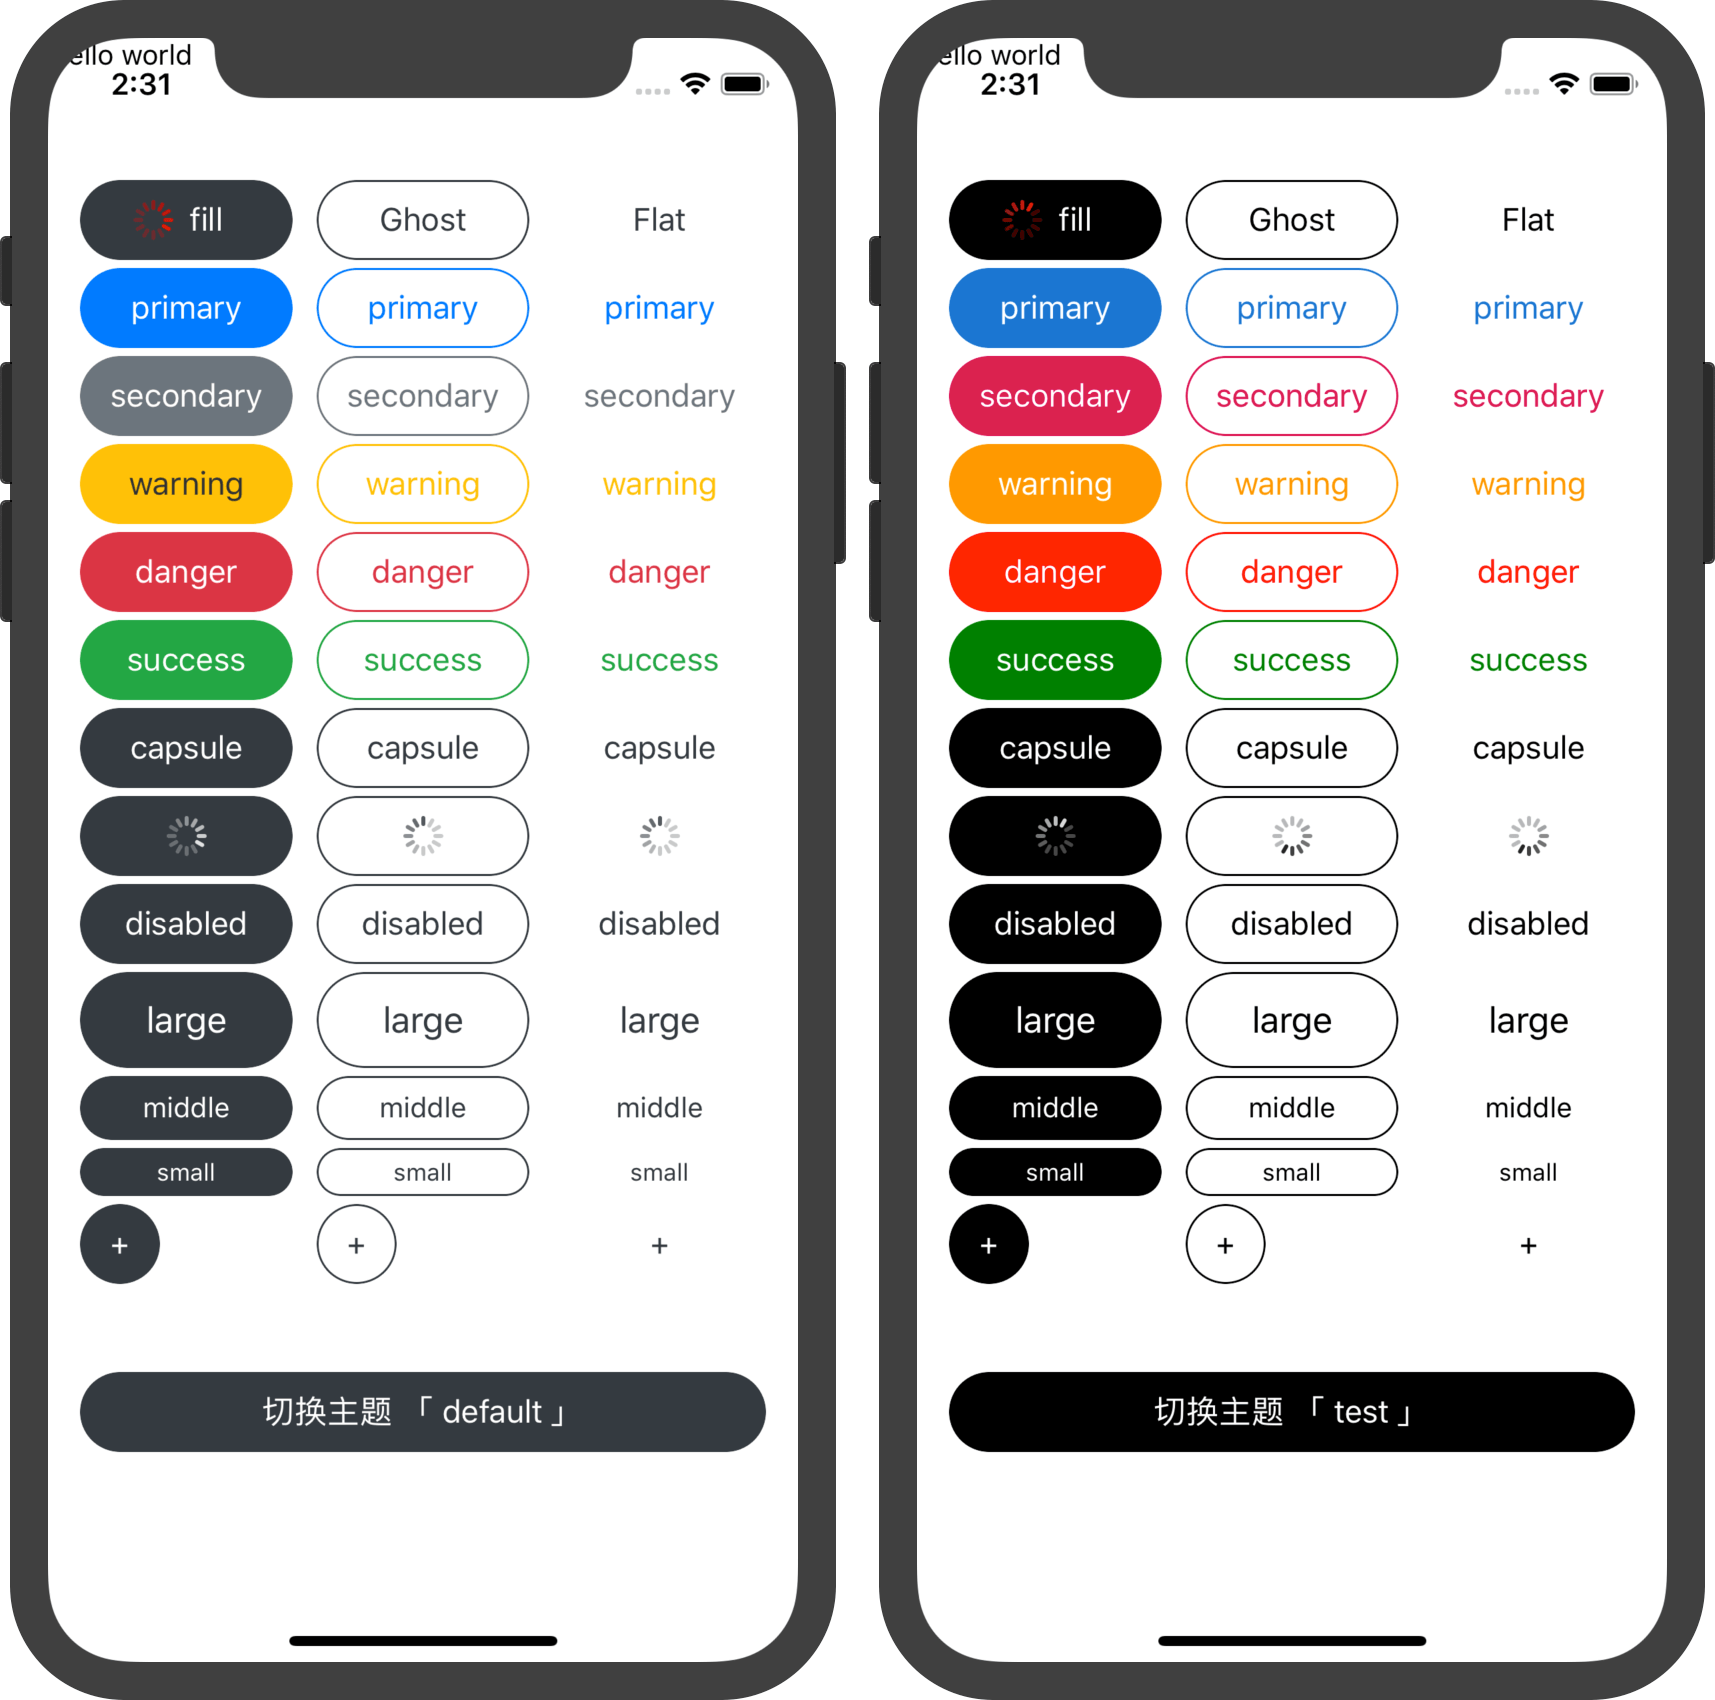
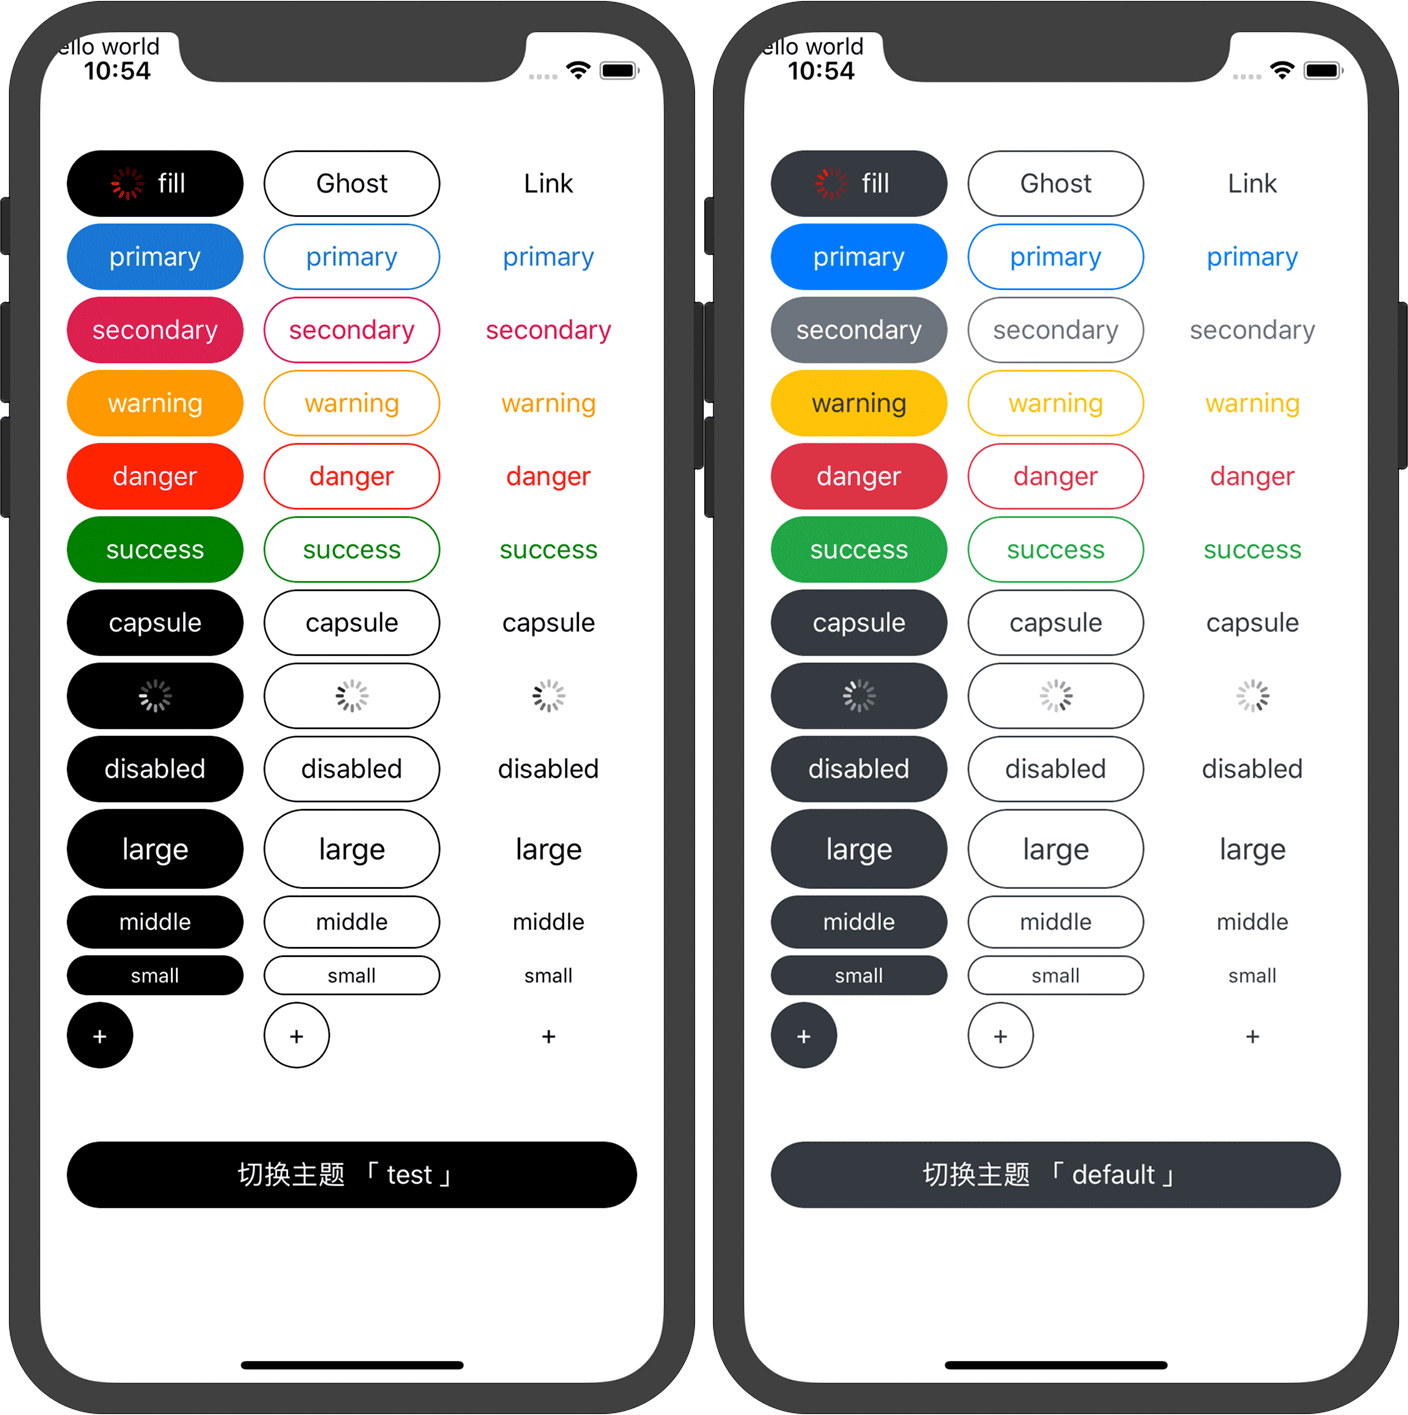
修改flat到link

diff --git a/demo/App.js b/demo/App.js
@@ -99,31 +99,31 @@ export default function App() {
                     <Button theme={theme} variant="ghost" circle>+</Button>
                 </Col>
                 <Col span={2}>
-                    <Button theme={theme} title="Flat" variant="flat">Flat</Button>
+                    <Button theme={theme} variant="link">Link</Button>
                     <View style={{height: 4}}/>
-                    <Button theme={theme} variant="flat" level="primary">primary</Button>
+                    <Button theme={theme} variant="link" level="primary">primary</Button>
                     <View style={{height: 4}}/>
-                    <Button theme={theme} variant="flat" level="secondary">secondary</Button>
+                    <Button theme={theme} variant="link" level="secondary">secondary</Button>
                     <View style={{height: 4}}/>
-                    <Button theme={theme} variant="flat" level="warning">warning</Button>
+                    <Button theme={theme} variant="link" level="warning">warning</Button>
                     <View style={{height: 4}}/>
-                    <Button theme={theme} variant="flat" level="danger">danger</Button>
+                    <Button theme={theme} variant="link" level="danger">danger</Button>
                     <View style={{height: 4}}/>
-                    <Button theme={theme} variant="flat" level="success">success</Button>
+                    <Button theme={theme} variant="link" level="success">success</Button>
                     <View style={{height: 4}}/>
-                    <Button theme={theme} variant="flat" capsule>capsule</Button>
+                    <Button theme={theme} variant="link" capsule>capsule</Button>
                     <View style={{height: 4}}/>
-                    <Button theme={theme} variant="flat" loading>loading</Button>
+                    <Button theme={theme} variant="link" loading>loading</Button>
                     <View style={{height: 4}}/>
-                    <Button theme={theme} variant="flat" disabled>disabled</Button>
+                    <Button theme={theme} variant="link" disabled>disabled</Button>
                     <View style={{height: 4}}/>
-                    <Button theme={theme} variant="flat" size="large">large</Button>
+                    <Button theme={theme} variant="link" size="large">large</Button>
                     <View style={{height: 4}}/>
-                    <Button theme={theme} variant="flat" size="middle">middle</Button>
+                    <Button theme={theme} variant="link" size="middle">middle</Button>
                     <View style={{height: 4}}/>
-                    <Button theme={theme} variant="flat" size="small">small</Button>
+                    <Button theme={theme} variant="link" size="small">small</Button>
                     <View style={{height: 4}}/>
-                    <Button theme={theme} variant="flat">+</Button>
+                    <Button theme={theme} variant="link">+</Button>
                 </Col>
             </Row>
             <View style={{height: 4}}/>

diff --git a/lib/index.js b/lib/index.js
@@ -52,7 +52,7 @@ const _apiPrivate = {
         } else if (variant === 'ghost') {
             wrapDefault.borderColor = levelColor;
             textDefault.color = levelColor;
-        } else if (variant === 'flat') {
+        } else if (variant === 'link') {
             textDefault.color = levelColor;
         }
 
@@ -252,7 +252,7 @@ const ButtonPropTypes = {
     /**
      *  按钮变体
      */
-    variant: PropTypes.oneOf(['fill', 'ghost', 'flat']),
+    variant: PropTypes.oneOf(['fill', 'ghost', 'link']),
     /**
      * 胶囊按钮，左右都是圆角的按钮
      */

diff --git a/README.md b/README.md
@@ -1,4 +1,4 @@
-# Button
+# nu-react-native-button
 
 [![npm package][npm-badge]][npm]
 
@@ -7,7 +7,7 @@
 
 这是 NU 「 no-ui 」 组件库系统 nu-system，按钮组件 React native 实现。
 
-[示意图](./assets/demo.png)
+![示意图](./assets/demo.png)
 
 ## 怎么用？
 
@@ -85,7 +85,7 @@ export default Page;
 | capsule |  boolean | - | 圆角按钮|
 | circle |  boolean | - | 正圆按钮 |
 | level | 'default', 'primary', 'secondary', 'warning', 'danger', 'success' | `default` | 按钮等级 |
-| variant | 'fill', 'ghost', 'flat' | `fill` | 按钮变体 |
+| variant | 'fill', 'ghost', 'link' | `fill` | 按钮变体 |
 | size | \['large', 'default', 'middle', 'small' \] or `number` | `default` | 按钮大小 |
 
 *注*: 虽然提供了 `size` 可以为 `number` 的接口，但是这个是非常不推荐使用的。你使用这种方式，意味着你定义的这个按钮样式是没法被人复用的。
@@ -96,7 +96,7 @@ export default Page;
 |:-----|:-----:|:-----:|:-----:|
 | `name` |  `string` | `default` | 主题名称 |
 | `defaultLevel` |  `default`, `primary` | `default` | 默认主色 |
-| `defaultVariant` |  `fill`, `flat`, `ghost` | `fill` | 默认变体 |
+| `defaultVariant` |  `fill`, `link`, `ghost` | `fill` | 默认变体 |
 | `defaultBoolProps` |  `object` | `{}` | 默认 bool 属性, 会给每个按钮默认添加这些 bool 属性 |
 | `levelColors` |  `object` | 见下面 | 按钮主色列表 |
 | `Wrap` |  `func node` | 见下面 | 按钮容器对象 |
